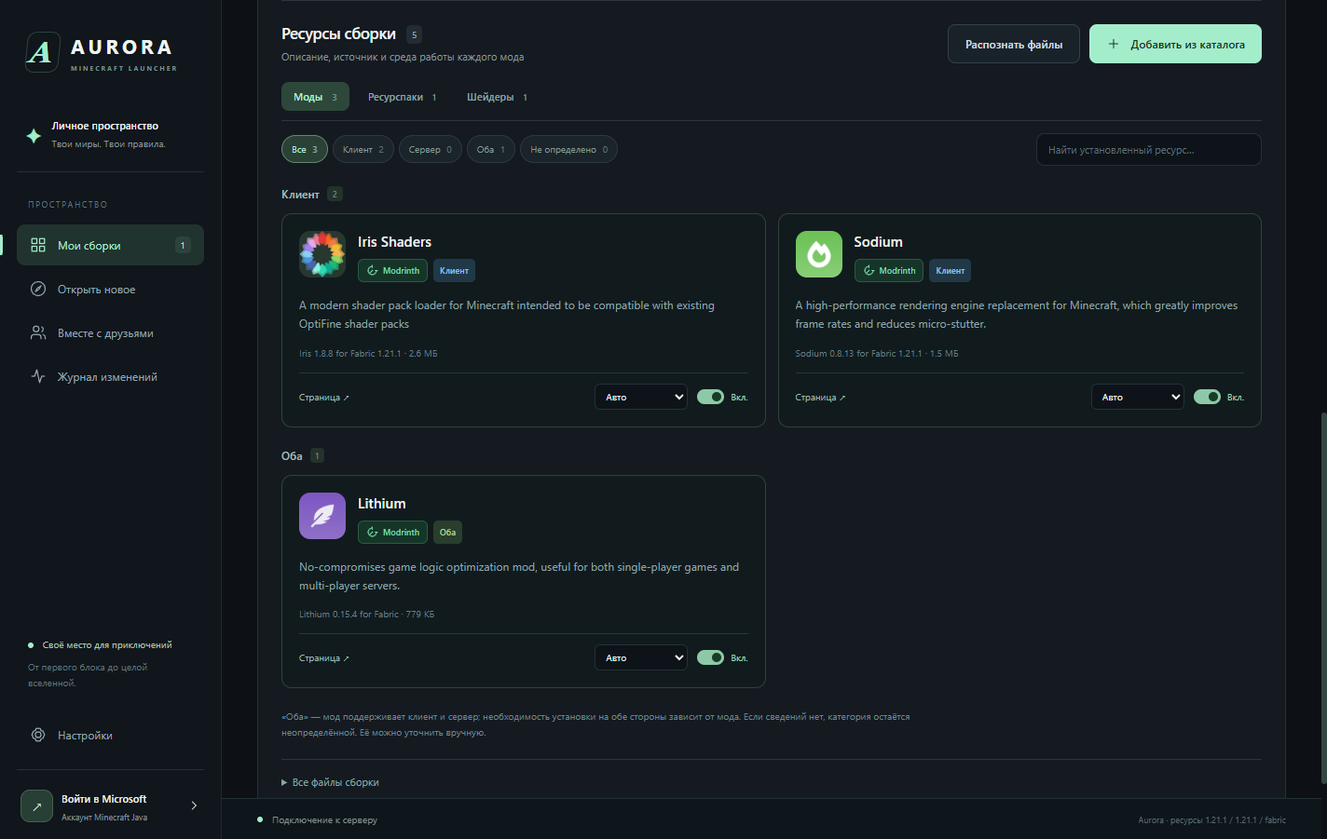
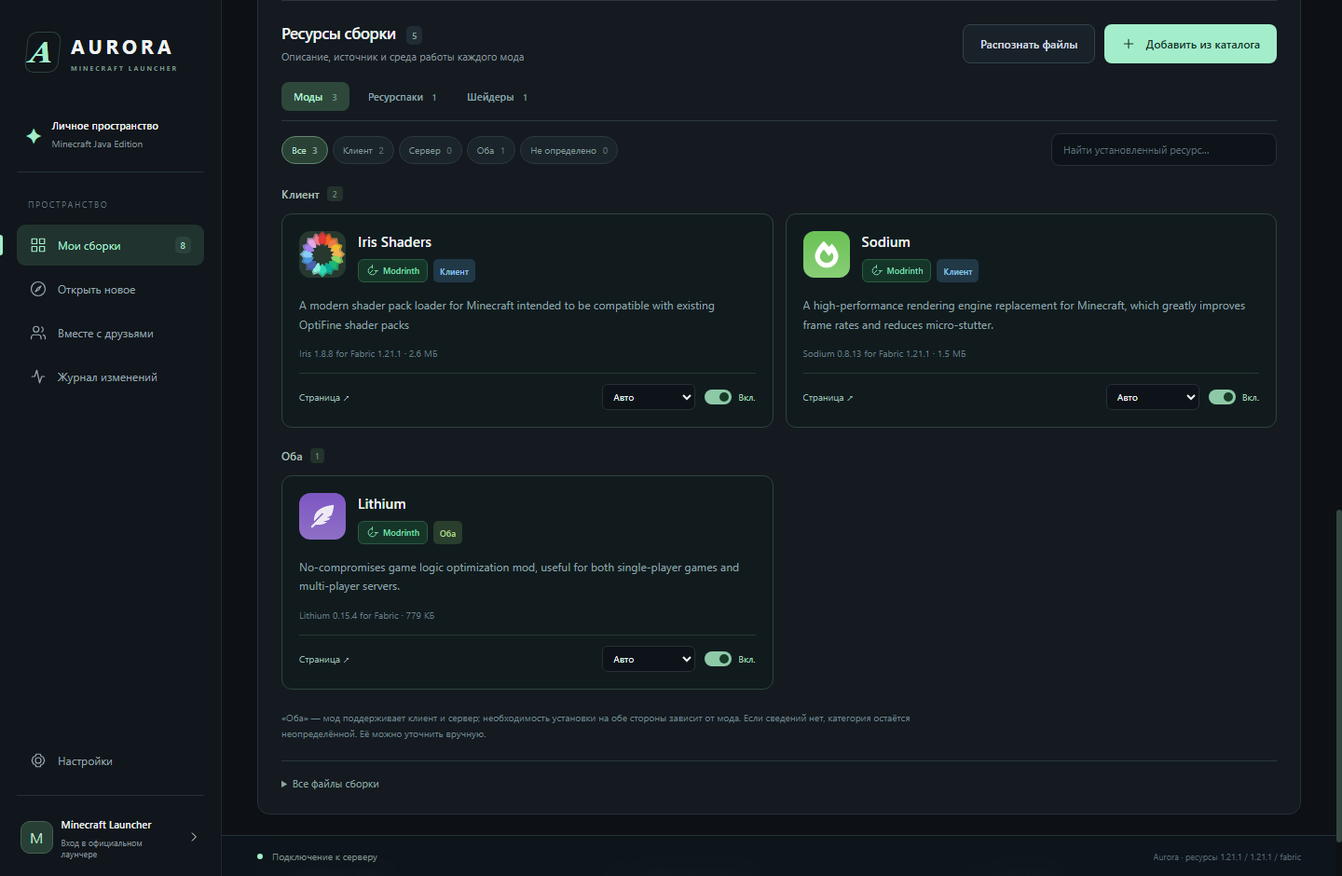
Document temporary launch flow and usability follow-ups

diff --git a/docs/index.html b/docs/index.html
@@ -1,10 +1,10 @@
 <!doctype html>
-<html lang="ru"><head><meta charset="utf-8"><meta name="viewport" content="width=device-width, initial-scale=1"><meta name="theme-color" content="#0b1414"><meta name="description" content="Aurora — настольный Minecraft-лаунчер для Windows. Собирайте свой мир, управляйте модами и делитесь сборкой с друзьями."><title>Aurora — твой мир начинается здесь</title><link rel="icon" href="assets/icon.png"><link rel="stylesheet" href="style.css"></head>
+<html lang="ru"><head><meta charset="utf-8"><meta name="viewport" content="width=device-width, initial-scale=1"><meta name="theme-color" content="#0b1414"><meta name="description" content="Aurora — настольный Minecraft-лаунчер для Windows и Linux. Собирайте свой мир, управляйте модами и делитесь сборкой с друзьями."><title>Aurora — твой мир начинается здесь</title><link rel="icon" href="assets/icon.png"><link rel="stylesheet" href="style.css"></head>
 <body><a class="skip" href="#main">К содержимому</a><header><a class="brand" href="#" aria-label="Aurora — главная"><span class="brand-icon">A</span><span>AURORA<small>MINECRAFT LAUNCHER</small></span></a><nav aria-label="Основная навигация"><a href="#workspace">Возможности</a><a href="#integrations">Интеграции</a><a class="nav-source" href="https://github.com/ffxlino/Aurora">GitHub ↗</a></nav></header>
-<main id="main"><section class="hero"><img class="landscape" src="assets/landscape.svg" alt="" fetchpriority="high"><div class="hero-shade"></div><div class="hero-content"><div class="eyebrow"><span class="dot"></span> WINDOWS x64 · PREVIEW 0.2.1</div><h1>Твой мир.<br>Твои правила.<br><em>Твоя Aurora.</em></h1><p>От первого блока до общего приключения.<br>Сборки, любимые моды и друзья — в одном<br class="desktop"> настольном лаунчере.</p><div class="hero-actions"><a class="button primary" href="https://github.com/ffxlino/Aurora#build-and-run">Исходники и сборка <span>↗</span></a><a class="button ghost" href="#workspace">Посмотреть интерфейс ↓</a></div><div class="hero-note">Открытый исходный код · Minecraft Java Edition</div></div><div class="landscape-label">01 / MINECRAFT JAVA EDITION</div></section>
-<section class="intro" id="workspace"><div class="section-label">01 — ЛИЧНОЕ ПРОСТРАНСТВО</div><div class="section-heading"><h2>Каждая сборка —<br><span>отдельная история.</span></h2><p>Уютный survival, техническая сборка или мир для компании. Выбирай версию Minecraft и загрузчик, добавляй ресурсы и сохраняй порядок в своей библиотеке.</p></div><figure class="app-preview"><div class="window-bar"><span class="window-dots">● ● ●</span><span>Aurora / Ресурсы сборки</span><span>DESKTOP</span></div><img src="assets/resources.png" alt="Реальный интерфейс Aurora: карточки Iris, Sodium и Lithium с описаниями, источниками и переключателями" width="1424" height="901" loading="lazy"><figcaption>Настоящий интерфейс версии 0.2.1. Показана тестовая сборка Minecraft 1.21.1.</figcaption></figure><div class="feature-row"><article><span class="feature-number">01</span><h3>Видно, что установлено</h3><p>Иконка, описание, версия и источник каждого ресурса. Моды разделены на клиентские, серверные и общие; неизвестную категорию можно уточнить вручную.</p></article><article><span class="feature-number">02</span><h3>Меньше ручной работы</h3><p>Выбор совместимых версий, загрузка обязательных зависимостей и подходящей Java. Шейдеры и ресурспаки попадают в свои папки.</p></article><article><span class="feature-number">03</span><h3>Изменения под контролем</h3><p>Переключатели модов, резервные копии заменяемых файлов и подтверждения внутри интерфейса. Собирай свой набор постепенно.</p></article></div></section>
-<section class="together" id="friends"><div><div class="section-label">02 — ВМЕСТЕ ЛУЧШЕ</div><h2>Одна сборка.<br><span>Вся компания.</span></h2><p>Открой пространство на своём компьютере и передай друзьям адрес. Они смогут скачать общую сборку, а доверенные редакторы — публиковать изменения.</p><a class="text-link" href="https://github.com/ffxlino/Aurora/blob/main/documentation/USER_GUIDE_RU.md">Как устроена совместная работа ↗</a></div><div class="sharing-list"><div><span>01</span><section><h3>Доступ по твоим правилам</h3><p>Мастер-пароль для владельца и белый список UUID редакторов.</p></section></div><div><span>02</span><section><h3>Понятная история</h3><p>Кто изменил файлы, что добавлено и когда опубликована новая ревизия.</p></section></div><div><span>03</span><section><h3>Синхронизация с проверкой</h3><p>Загрузка по запросу и обнаружение конфликтов локальных изменений.</p></section></div></div><p class="section-footnote">Хост должен оставаться включённым и доступным по сети. Пространство синхронизирует файлы сборки; для совместной игры нужен отдельный Minecraft-сервер или LAN-мир.</p></section>
-<section class="integrations" id="integrations"><div class="section-label">03 — ОТКРЫТО ОБ ИНТЕГРАЦИЯХ</div><div class="section-heading"><h2>Любимые ресурсы.<br><span>Понятные источники.</span></h2><p>Aurora находится в разработке. Здесь указан фактический статус подключений, чтобы было ясно, что уже проверено и что ещё требует настройки.</p></div><div class="integration-grid"><article><div class="provider modrinth">◉ Modrinth</div><h3>Каталог и установка</h3><p>Сборки, моды, ресурспаки и шейдеры. Поиск и настоящие загрузки проверены, включая Sodium, Iris и Complementary.</p><span class="status ready">Проверены реальные загрузки</span></article><article><div class="provider curseforge">◆ CurseForge</div><h3>Подготовленная интеграция</h3><p>Поиск, версии, зависимости и импорт реализованы. Для использования нужен одобренный API-ключ приложения; у Aurora его пока нет.</p><span class="status pending">Требуется доступ к API</span></article><article><div class="provider microsoft">▦ Microsoft</div><h3>Официальный аккаунт</h3><p>Вход через Microsoft, Xbox и Minecraft Services. Client ID Aurora встроен. Нужно разрешить public client flows в Entra; полный вход и запуск с лицензией ещё не проверены.</p><span class="status pending">Проверка входа ещё не завершена</span></article></div><aside class="reviewer" lang="en"><strong>For API reviewers</strong><p>Aurora is an independent Windows desktop launcher. The integration uses project search, compatible file metadata, dependencies and permitted downloads. Unavailable third-party downloads are rejected. No other launcher's API key is bundled. Live CurseForge validation is pending project API access.</p><a class="text-link" href="https://github.com/ffxlino/Aurora/blob/main/documentation/INTEGRATIONS.md">Read the integration overview ↗</a></aside></section>
-<section class="start" id="start"><div><div class="section-label">04 — НАЧАЛО ПУТИ</div><h2>Собери своё<br><span>следующее приключение.</span></h2><p>Исходники, инструкция по сборке и текущие ограничения доступны в репозитории. Проект продолжает развиваться — обратная связь помогает выбрать следующий шаг.</p></div><div class="start-actions"><a class="button primary" href="https://github.com/ffxlino/Aurora">Открыть репозиторий ↗</a><a class="button ghost" href="https://github.com/ffxlino/Aurora/issues">Задать вопрос ↗</a><small>Windows 10/11 x64 · Minecraft Java 1.18+<br>Переносимая сборка · EXE без цифровой подписи</small></div></section>
-<section class="faq"><h2>Перед первым запуском</h2><details><summary>Нужно ли устанавливать Java отдельно?</summary><p>Нет. Лаунчер загружает подходящую Java. Готовый Windows EXE включает среду приложения. Node.js нужен только для сборки из исходников.</p></details><details><summary>Можно ли играть без лицензии Minecraft?</summary><p>Для входа и игры нужен аккаунт Microsoft с Minecraft Java Edition. В Aurora нет обхода лицензии. Настройка собственного приложения Microsoft описана в руководстве.</p></details><details><summary>Все сочетания модов будут работать?</summary><p>Каталог подбирает версии по Minecraft и загрузчику, но совместимость произвольных модов проверяется в игре. Категории «Клиент», «Сервер» и «Оба» описывают среду работы, а не гарантируют совместимость.</p></details><details><summary>Как Aurora связана с CraftSync?</summary><p>Aurora продолжает работу в репозитории прежнего проекта CraftSync. Репозиторий переименован, а предыдущая реализация сохранена в истории Git.</p></details></section>
-</main><footer><a class="brand" href="#"><span class="brand-icon">A</span><span>AURORA<small>СВОЁ МЕСТО ДЛЯ ПРИКЛЮЧЕНИЙ</small></span></a><div><a href="https://github.com/ffxlino">ffxlino ↗</a><a href="https://github.com/ffxlino/Aurora/blob/main/LICENSE">MIT License ↗</a><p>Независимый проект. Не является официальным продуктом Minecraft.<br>Не связан с Mojang, Microsoft, CurseForge, Modrinth или Prism Launcher.</p></div></footer></body></html>
+<main id="main"><section class="hero"><img class="landscape" src="assets/landscape.svg" alt="" fetchpriority="high"><div class="hero-shade"></div><div class="hero-content"><div class="eyebrow"><span class="dot"></span> WINDOWS / LINUX x64 · PREVIEW 0.3.0</div><h1>Твой мир.<br>Твои правила.<br><em>Твоя Aurora.</em></h1><p>От первого блока до общего приключения.<br>Сборки, любимые моды и друзья — в одном<br class="desktop"> настольном лаунчере.</p><div class="hero-actions"><a class="button primary" href="https://github.com/ffxlino/Aurora/releases/tag/v0.3.0">Скачать Aurora <span>↗</span></a><a class="button ghost" href="#workspace">Посмотреть интерфейс ↓</a></div><div class="hero-note">Открытый исходный код · Minecraft Java Edition</div></div><div class="landscape-label">01 / MINECRAFT JAVA EDITION</div></section>
+<section class="intro" id="workspace"><div class="section-label">01 — ЛИЧНОЕ ПРОСТРАНСТВО</div><div class="section-heading"><h2>Каждая сборка —<br><span>отдельная история.</span></h2><p>Уютный survival, техническая сборка или мир для компании. Выбирай версию Minecraft и загрузчик, добавляй ресурсы и сохраняй порядок в своей библиотеке.</p></div><figure class="app-preview"><div class="window-bar"><span class="window-dots">● ● ●</span><span>Aurora / Ресурсы сборки</span><span>DESKTOP</span></div><img src="assets/resources.png" alt="Реальный интерфейс Aurora: карточки Iris, Sodium и Lithium с описаниями, источниками и переключателями" width="1424" height="901" loading="lazy"><figcaption>Настоящий интерфейс версии 0.3.0. Показана тестовая сборка Minecraft 1.21.1.</figcaption></figure><div class="feature-row"><article><span class="feature-number">01</span><h3>Видно, что установлено</h3><p>Иконка, описание, версия и источник каждого ресурса. Моды разделены на клиентские, серверные и общие; неизвестную категорию можно уточнить вручную.</p></article><article><span class="feature-number">02</span><h3>Меньше ручной работы</h3><p>Выбор совместимых версий, загрузка обязательных зависимостей и подходящей Java. Шейдеры и ресурспаки попадают в свои папки.</p></article><article><span class="feature-number">03</span><h3>Изменения под контролем</h3><p>Переключатели модов, резервные копии заменяемых файлов и подтверждения внутри интерфейса. Собирай свой набор постепенно.</p></article></div></section>
+<section class="together" id="friends"><div><div class="section-label">02 — ВМЕСТЕ ЛУЧШЕ</div><h2>Одна сборка.<br><span>Вся компания.</span></h2><p>Открой пространство на своём компьютере и передай друзьям адрес. Они смогут скачать общую сборку, а доверенные редакторы — публиковать изменения.</p><a class="text-link" href="https://github.com/ffxlino/Aurora/blob/main/documentation/USER_GUIDE_RU.md">Как устроена совместная работа ↗</a></div><div class="sharing-list"><div><span>01</span><section><h3>Доступ по твоим правилам</h3><p>В текущей версии используется мастер-пароль. Авторизация редакторов по Minecraft ожидает одобрения Mojang.</p></section></div><div><span>02</span><section><h3>Понятная история</h3><p>Кто изменил файлы, что добавлено и когда опубликована новая ревизия.</p></section></div><div><span>03</span><section><h3>Синхронизация с проверкой</h3><p>Загрузка по запросу и обнаружение конфликтов локальных изменений.</p></section></div></div><p class="section-footnote">Хост должен оставаться включённым и доступным по сети. Пространство синхронизирует файлы сборки; для совместной игры нужен отдельный Minecraft-сервер или LAN-мир.</p></section>
+<section class="integrations" id="integrations"><div class="section-label">03 — ОТКРЫТО ОБ ИНТЕГРАЦИЯХ</div><div class="section-heading"><h2>Любимые ресурсы.<br><span>Понятные источники.</span></h2><p>Aurora находится в разработке. Здесь указан фактический статус подключений, чтобы было ясно, что уже проверено и что ещё требует настройки.</p></div><div class="integration-grid"><article><div class="provider modrinth">◉ Modrinth</div><h3>Каталог и установка</h3><p>Сборки, моды, ресурспаки и шейдеры. Поиск и настоящие загрузки проверены, включая Sodium, Iris и Complementary.</p><span class="status ready">Проверены реальные загрузки</span></article><article><div class="provider curseforge">◆ CurseForge</div><h3>Подготовленная интеграция</h3><p>Поиск, версии, зависимости и импорт реализованы. Для использования нужен одобренный API-ключ приложения; у Aurora его пока нет. В версии 0.3.0 источник временно отключён.</p><span class="status pending">Требуется доступ к API</span></article><article><div class="provider microsoft">▦ Microsoft</div><h3>Официальный аккаунт</h3><p>Пока Mojang рассматривает заявку, Aurora готовит профиль и открывает официальный Minecraft Launcher. Вход выполняется там.</p><span class="status pending">Запуск через официальный лаунчер</span></article></div><aside class="reviewer" lang="en"><strong>For API reviewers</strong><p>Aurora is an independent Windows and Linux desktop launcher. The integration uses project search, compatible file metadata, dependencies and permitted downloads. Unavailable third-party downloads are rejected. No other launcher's API key is bundled. Live CurseForge validation is pending project API access.</p><a class="text-link" href="https://github.com/ffxlino/Aurora/blob/main/documentation/INTEGRATIONS.md">Read the integration overview ↗</a></aside></section>
+<section class="start" id="start"><div><div class="section-label">04 — НАЧАЛО ПУТИ</div><h2>Собери своё<br><span>следующее приключение.</span></h2><p>Исходники, инструкция по сборке и текущие ограничения доступны в репозитории. Проект продолжает развиваться — обратная связь помогает выбрать следующий шаг.</p></div><div class="start-actions"><a class="button primary" href="https://github.com/ffxlino/Aurora">Открыть репозиторий ↗</a><a class="button ghost" href="https://github.com/ffxlino/Aurora/issues">Задать вопрос ↗</a><small>Windows 10/11 и Linux x64 · Minecraft Java 1.18+<br>Переносимая сборка · EXE без цифровой подписи</small></div></section>
+<section class="faq"><h2>Перед первым запуском</h2><details><summary>Нужно ли устанавливать Java отдельно?</summary><p>Нет. Лаунчер загружает подходящую Java. Готовый Windows EXE включает среду приложения. Node.js нужен только для сборки из исходников.</p></details><details><summary>Можно ли играть без лицензии Minecraft?</summary><p>Для входа и игры нужен аккаунт Microsoft с Minecraft Java Edition. В Aurora нет обхода лицензии. Текущая версия передаёт запуск установленному официальному Minecraft Launcher.</p></details><details><summary>Все сочетания модов будут работать?</summary><p>Каталог подбирает версии по Minecraft и загрузчику, но совместимость произвольных модов проверяется в игре. Категории «Клиент», «Сервер» и «Оба» описывают среду работы, а не гарантируют совместимость.</p></details><details><summary>Как Aurora связана с CraftSync?</summary><p>Aurora продолжает работу в репозитории прежнего проекта CraftSync. Репозиторий переименован, а предыдущая реализация сохранена в истории Git.</p></details></section>
+</main><footer><a class="brand" href="#"><span class="brand-icon">A</span><span>AURORA<small>MINECRAFT LAUNCHER</small></span></a><div><a href="https://github.com/ffxlino">ffxlino ↗</a><a href="https://github.com/ffxlino/Aurora/blob/main/LICENSE">MIT License ↗</a><p>Независимый проект. Не является официальным продуктом Minecraft.<br>Не связан с Mojang, Microsoft, CurseForge, Modrinth или Prism Launcher.</p></div></footer></body></html>

diff --git a/documentation/REVIEW_RU.md b/documentation/REVIEW_RU.md
@@ -1,0 +1,14 @@
+# Проверка удобства и функциональности Aurora 0.3.0
+
+Добавлено: работа только с Modrinth; официальный режим запуска без недоступного прямого входа; изолированные профили для сборок; автоматический выбор Java и библиотек Windows/Linux; AppImage и пакет pacman; выбор и сохранение пути к лаунчеру; открытие latest.log; сортировка сборок; реальные номера версии в интерфейсе; повтор загрузок при сетевом сбое.
+
+Следующие приоритеты:
+
+1. Управление зависимостями при удалении ресурса и безопасное обновление всех модов с предварительным просмотром и откатом. Сейчас установлены необходимые зависимости, но массовое обновление не реализовано.
+2. Восстановление резервных копий и архивированных сборок из интерфейса. Сейчас файлы сохранены и доступны через Проводник/файловый менеджер.
+3. Постоянный сервер общих сборок и управление участниками. Пока работает только встроенный сервер при открытой Aurora; у пользователя ещё не выбран внешний хостинг.
+4. Прямой вход и запуск после одобрения Mojang; включение CurseForge после одобрения API. Не заимствовать учётные данные других лаунчеров.
+5. Проверка Linux на реальной системе Arch/Wayland. CI проверяет Linux под Ubuntu и совместимые пакеты, но не может подтвердить все драйверы и окружения пользователя.
+6. Отслеживание процесса игры и загрузка crash reports в интерфейсе. Сейчас официальный лаунчер запускает игру независимо; Aurora открывает её настоящий журнал, но не может надёжно определить завершение или заблокировать изменения файлов во время игры.
+
+Ограничение временного режима: вход сохраняется в официальном лаунчере и не отображается как подтверждённый аккаунт Aurora. Полный запуск с лицензией требует проверки пользователем. Первичная загрузка игры и установка официального лаунчера требуют доступа к интернету.

diff --git a/documentation/USER_GUIDE_RU.md b/documentation/USER_GUIDE_RU.md
@@ -17,7 +17,7 @@
 
 ## Linux / Arch
 
-Aurora-0.3.0-Linux-x64.AppImage: разрешите выполнение файла в свойствах и откройте его. На системах без FUSE 2 можно использовать стандартный режим извлечения AppImage (--appimage-extract-and-run) либо установить пакет pacman.
+Aurora-0.3.0-Linux-x86_64.AppImage: разрешите выполнение файла в свойствах и откройте его. На системах без FUSE 2 можно использовать стандартный режим извлечения AppImage (--appimage-extract-and-run) либо установить пакет pacman.
 
 Aurora-0.3.0-Linux-x64.pacman: установите через `sudo pacman -U ./Aurora-0.3.0-Linux-x64.pacman`. Затем запустите Aurora из меню приложений. Пакет объявляет зависимости GTK, NSS, звука и графики; pacman установит их. Поддерживается x86_64, не ARM. Проверка Linux выполняется в Ubuntu CI; работа именно в вашем окружении Arch/Wayland требует проверки на устройстве.
 
